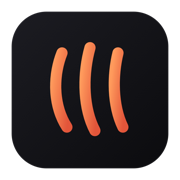
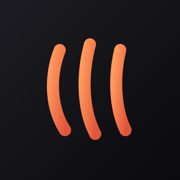
feat: ícone do Clawos no app da tela de início e pareamento colando o link (v0.3.3)

diff --git a/src/renderer/components/remote/PairingScreen.tsx b/src/renderer/components/remote/PairingScreen.tsx
@@ -19,8 +19,22 @@ function guessDeviceName(): string {
  * Tela do navegador antes do pareamento. O código vem no link do QR code mostrado no
  * Clawos do computador (Configurações → Acesso remoto) e vale uma vez, por 10 minutos.
  */
+/** Aceita o link de pareamento inteiro (…/?pair=CÓDIGO) ou só o código. */
+export function parsePairingInput(text: string): string | null {
+  const value = text.trim()
+  if (!value) return null
+  try {
+    const fromUrl = new URL(value).searchParams.get('pair')
+    if (fromUrl) return fromUrl
+  } catch {
+    // Não é um link: tratamos como o próprio código.
+  }
+  return /^[\w-]{20,}$/.test(value) ? value : null
+}
+
 export function PairingScreen() {
-  const code = new URLSearchParams(location.search).get('pair')
+  const [code, setCode] = useState(() => new URLSearchParams(location.search).get('pair'))
+  const [pasted, setPasted] = useState('')
   const [name, setName] = useState(guessDeviceName)
   const [busy, setBusy] = useState(false)
   const [error, setError] = useState<string | null>(null)
@@ -65,10 +79,32 @@ export function PairingScreen() {
             {error && <p className="text-sm text-red-600 dark:text-red-400">{error}</p>}
           </div>
         ) : (
-          <div className="rounded-lg border bg-card p-4 text-left text-sm text-muted-foreground">
-            No computador, abra o Clawos e vá em{' '}
-            <b className="text-foreground">Configurações → Acesso remoto</b>. Aponte a câmera deste
-            aparelho para o QR code que aparece lá.
+          <div className="space-y-3 text-left">
+            <div className="rounded-lg border bg-card p-4 text-sm text-muted-foreground">
+              No computador, abra o Clawos e vá em{' '}
+              <b className="text-foreground">Configurações → Acesso remoto</b>. Aponte a câmera
+              deste aparelho para o QR code que aparece lá.
+            </div>
+            <div className="space-y-1.5">
+              <span className="block text-xs text-muted-foreground">
+                Abriu pelo ícone da tela de início? Cole aqui o link de pareamento (no computador,
+                botão Copiar abaixo do QR code):
+              </span>
+              <input
+                value={pasted}
+                onChange={(e) => setPasted(e.target.value)}
+                placeholder="https://…/?pair=…"
+                className="h-10 w-full rounded-md border bg-background px-3 text-sm outline-none focus:ring-2 focus:ring-ring/40"
+              />
+              <Button
+                variant="outline"
+                className="h-10 w-full"
+                disabled={!parsePairingInput(pasted)}
+                onClick={() => setCode(parsePairingInput(pasted))}
+              >
+                Continuar
+              </Button>
+            </div>
           </div>
         )}
         <p className="text-[11px] text-muted-foreground">

diff --git a/src/renderer/components/remote/PairingScreen.test.ts b/src/renderer/components/remote/PairingScreen.test.ts
@@ -1,0 +1,15 @@
+import { describe, expect, it } from 'vitest'
+import { parsePairingInput } from './PairingScreen'
+
+describe('parsePairingInput', () => {
+  const code = 'Abc_123-xyzXYZ0987654321'
+  it('aceita o link completo ou só o código', () => {
+    expect(parsePairingInput(`https://meu-mac.tail1234.ts.net/?pair=${code}`)).toBe(code)
+    expect(parsePairingInput(`  ${code}  `)).toBe(code)
+  })
+  it('recusa texto que não é código', () => {
+    expect(parsePairingInput('')).toBeNull()
+    expect(parsePairingInput('oi')).toBeNull()
+    expect(parsePairingInput('https://meu-mac.tail1234.ts.net/')).toBeNull()
+  })
+})

diff --git a/src/renderer/components/remote/RemoteAccessSettings.tsx b/src/renderer/components/remote/RemoteAccessSettings.tsx
@@ -265,6 +265,15 @@ export function RemoteAccessSettings() {
                   </Button>
                 </div>
               </div>
+            ) : null}
+            {status.pairing && qr ? (
+              <div className="space-y-1">
+                <p className="text-[11px] text-muted-foreground">
+                  Sem câmera, ou abrindo pelo ícone da tela de início? Copie o link e cole no
+                  aparelho:
+                </p>
+                <CopyCommand command={status.pairing.url} />
+              </div>
             ) : (
               <Button
                 size="sm"

diff --git a/src/renderer/index.html b/src/renderer/index.html
@@ -14,6 +14,7 @@
     <meta name="apple-mobile-web-app-title" content="Clawos" />
     <link rel="manifest" href="./manifest.webmanifest" />
     <link rel="apple-touch-icon" href="./icon-180.png" />
+    <link rel="icon" type="image/png" href="./favicon.png" />
     <title>Clawos</title>
     <meta
       http-equiv="Content-Security-Policy"

diff --git a/CHANGELOG.md b/CHANGELOG.md
@@ -1,5 +1,10 @@
 # Changelog
 
+## 0.3.3
+
+- Ícone do Clawos ao adicionar à tela de início do celular ou tablet: versão própria para iPhone/iPad e Android, que preenche o formato do ícone (sem a borda escura).
+- Pareamento pelo app da tela de início: além do QR code, dá para colar o link de pareamento (o Clawos do computador mostra o link com botão Copiar).
+
 ## 0.3.2
 
 - Acesso remoto: a interface agora se ajusta de verdade à tela do celular (antes o navegador desenhava a página como um desktop e ela ficava minúscula). Campos de texto não dão mais zoom ao tocar no iPhone, a altura acompanha a barra do navegador e há margens para o notch.
